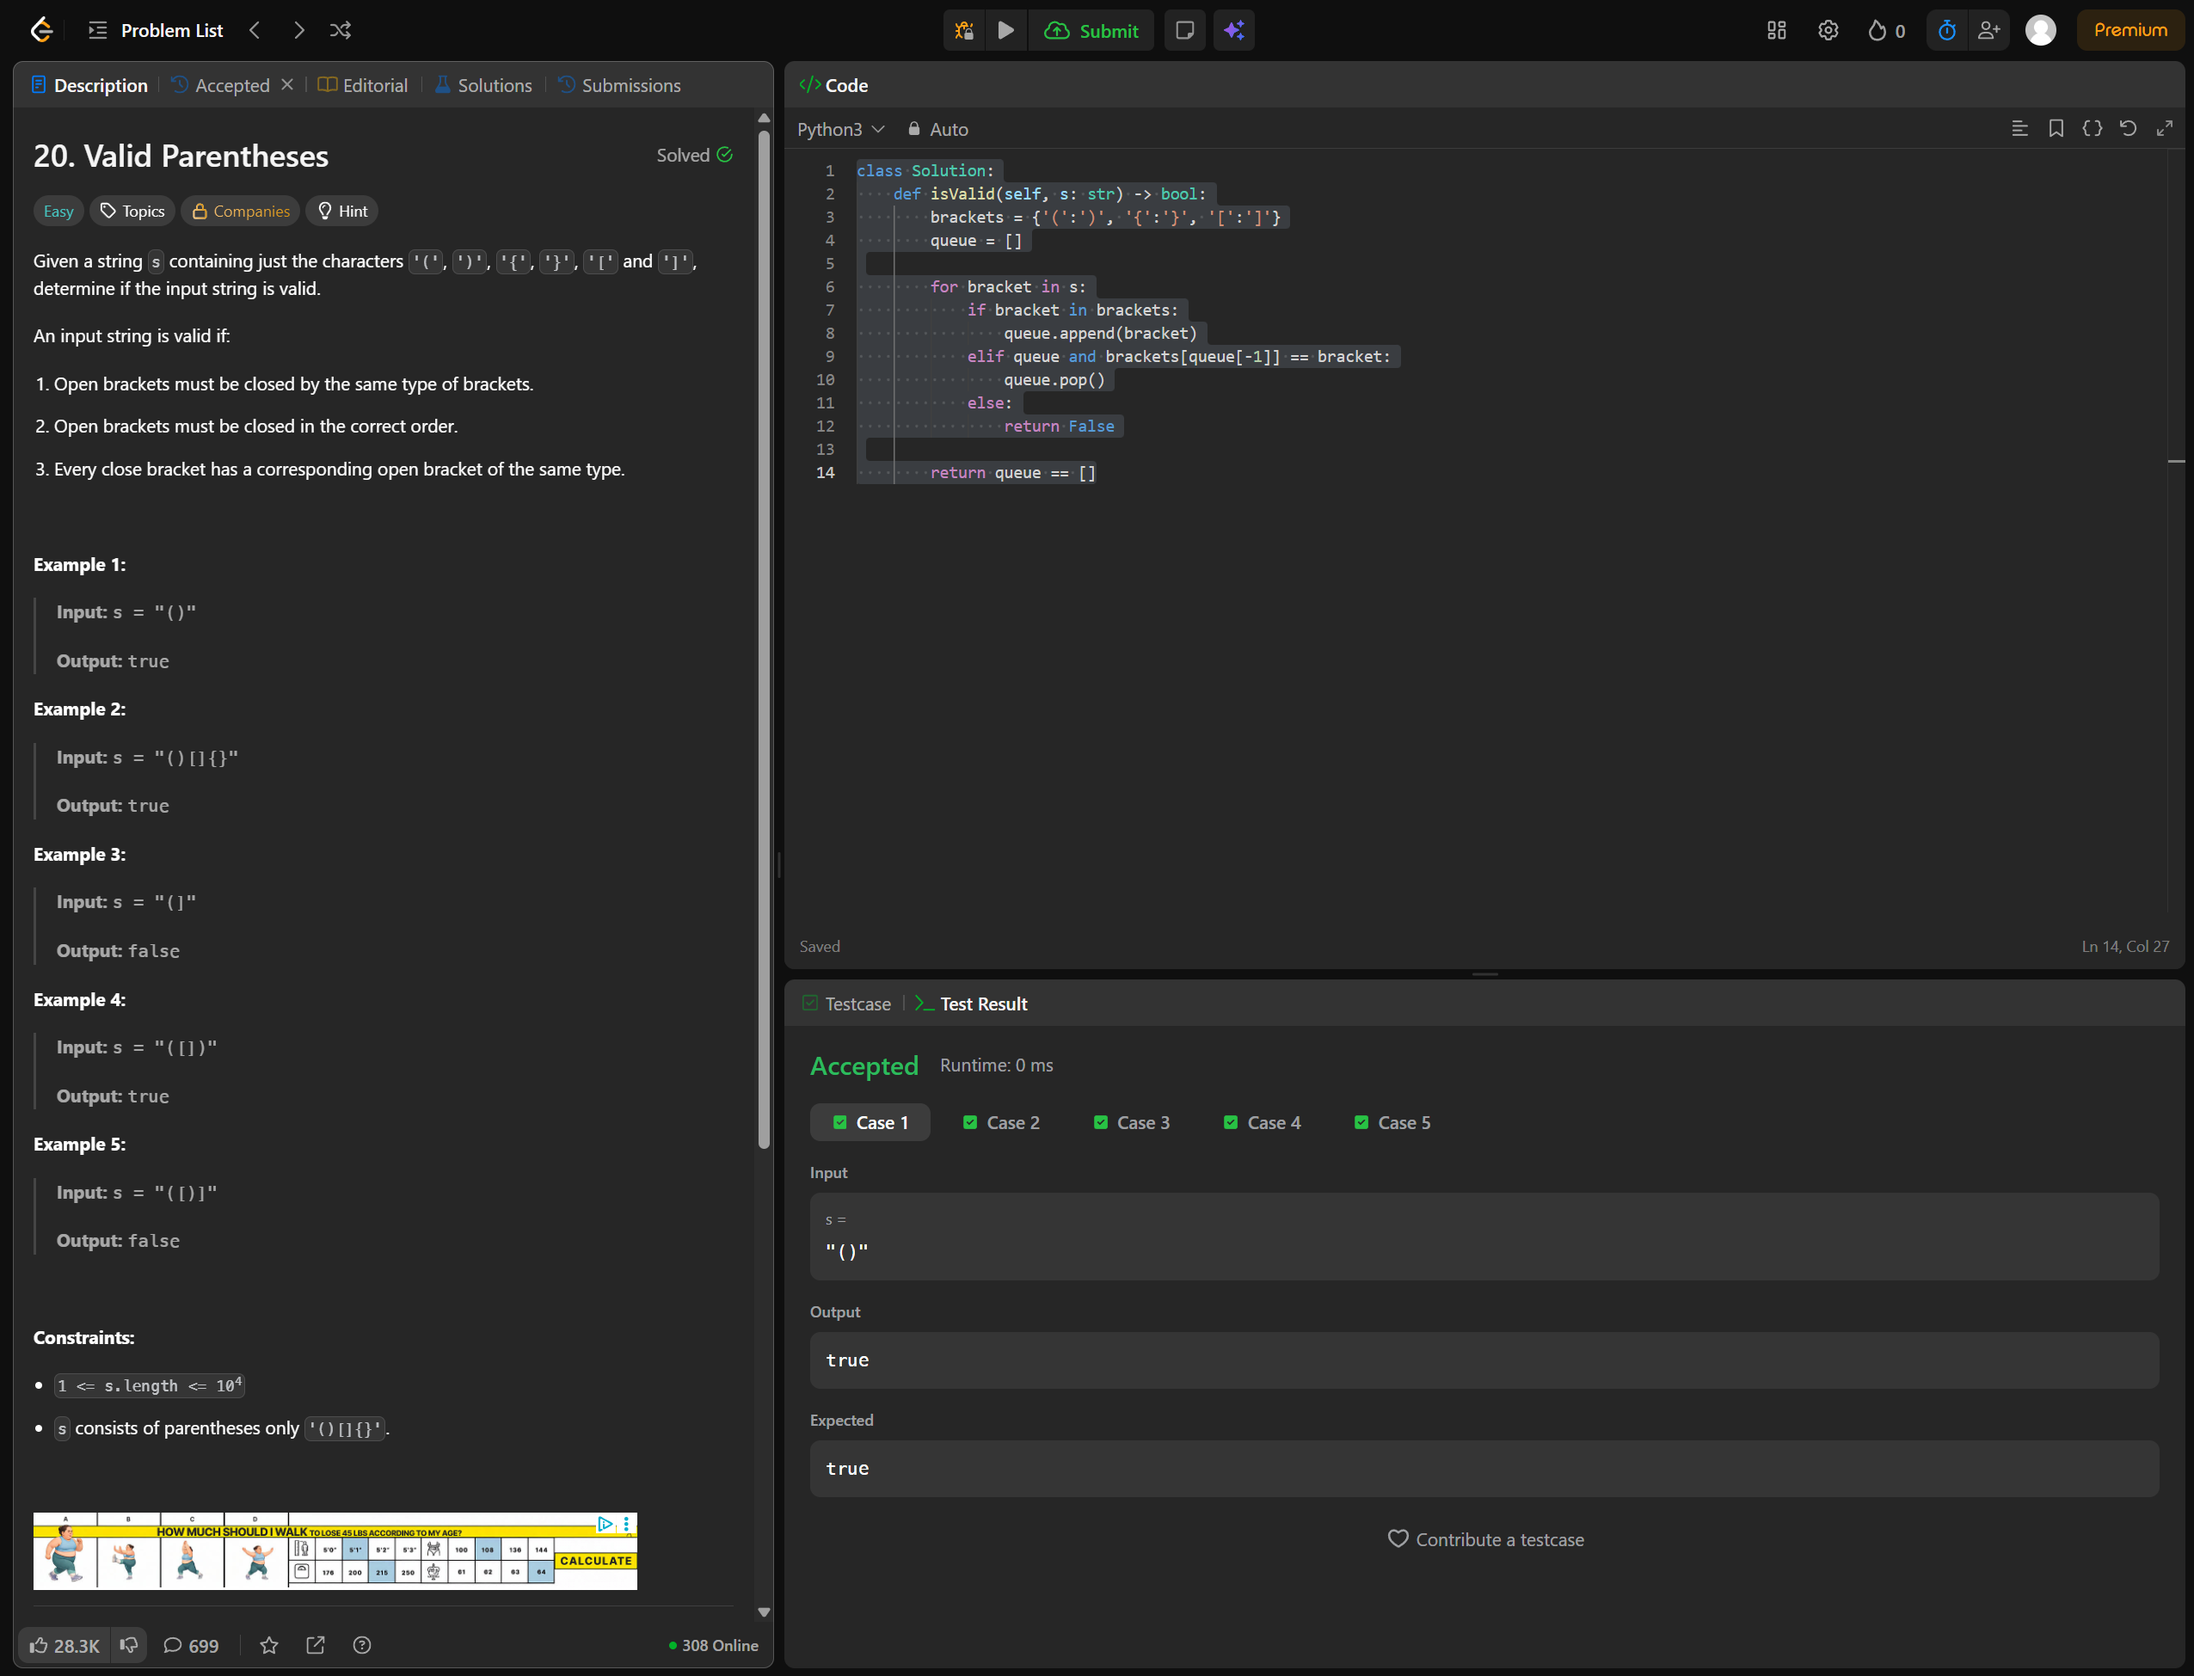
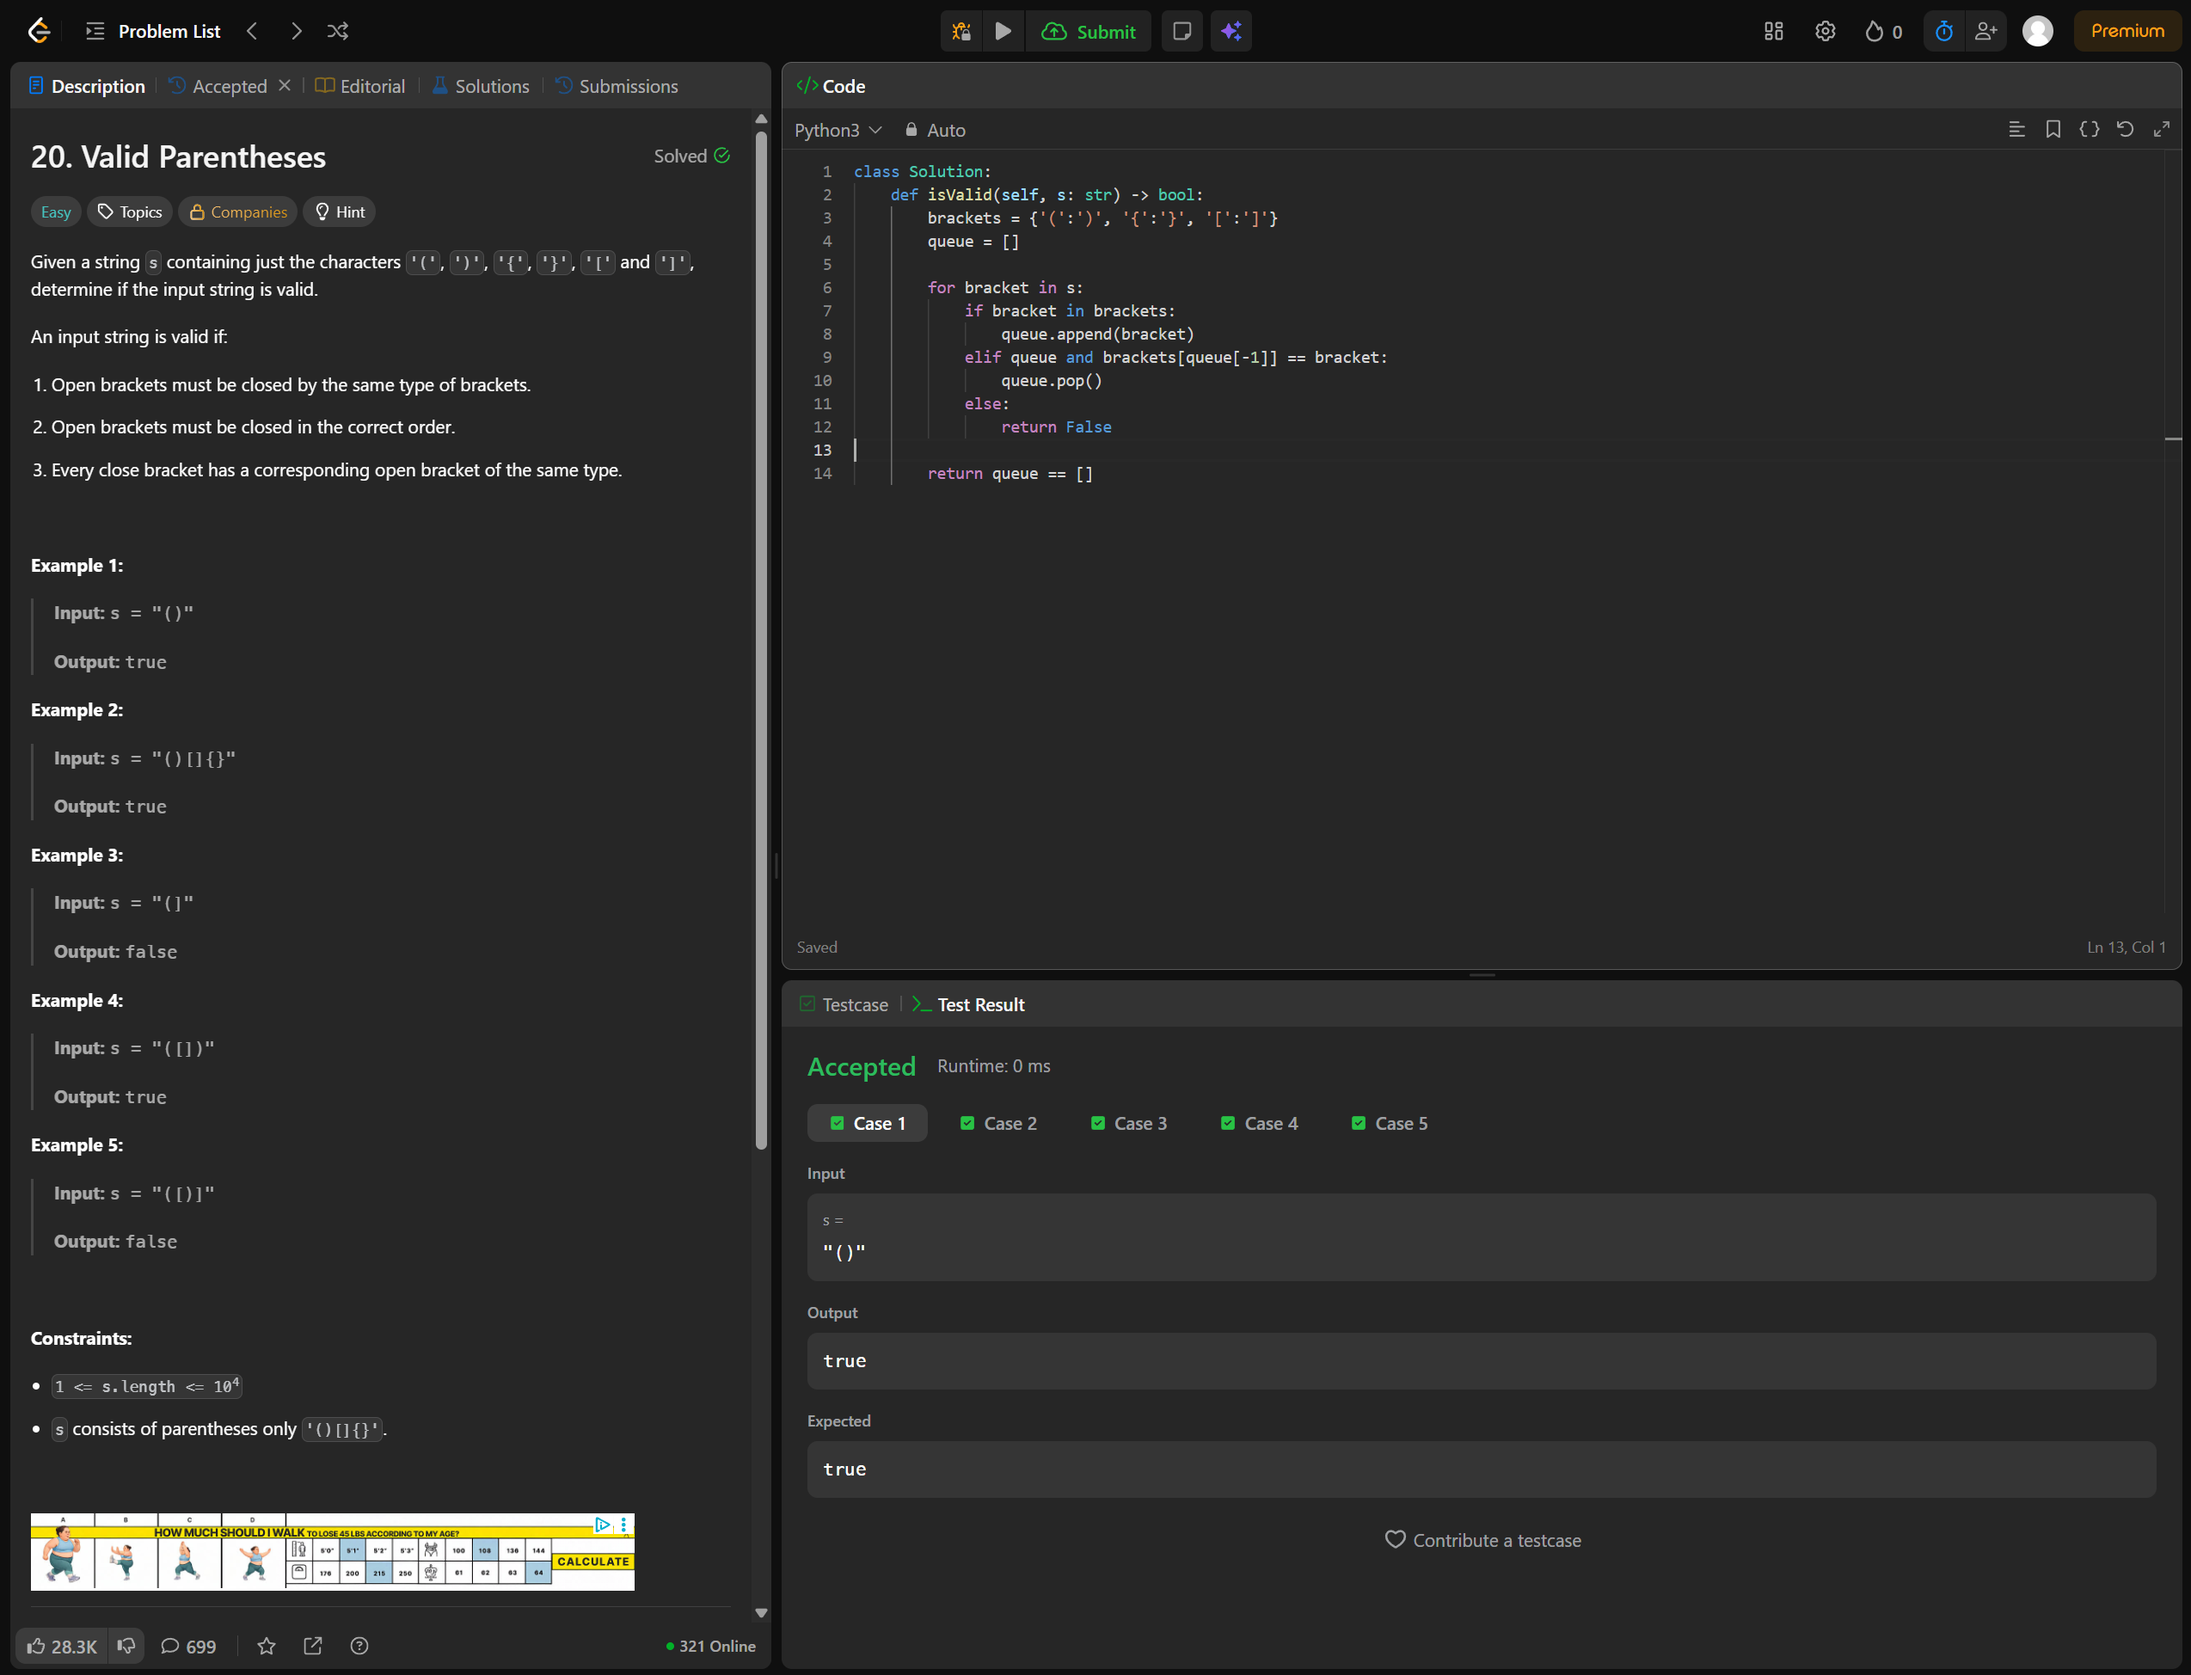
21. Merge Two Sorted Lists

diff --git a/Problems/Easy/21. Merge Two Sorted Lists/21. Merge Two Sorted Lists.py b/Problems/Easy/21. Merge Two Sorted Lists/21. Merge Two Sorted Lists.py
@@ -1,2 +1,25 @@
 # https://leetcode.com/problems/merge-two-sorted-lists/
 
+# Definition for singly-linked list.
+# class ListNode:
+#     def __init__(self, val=0, next=None):
+#         self.val = val
+#         self.next = next
+class Solution:
+    def mergeTwoLists(self, list1: Optional[ListNode], list2: Optional[ListNode]) -> Optional[ListNode]:
+        
+        mergedList = ListNode()
+        tail = mergedList
+
+        while list1 and list2:
+            if list1.val < list2.val:
+                tail.next = list1
+                list1 = list1.next
+            else:
+                tail.next = list2
+                list2 = list2.next
+            tail = tail.next
+
+        tail.next = list1 if list1 else list2
+
+        return mergedList.next
